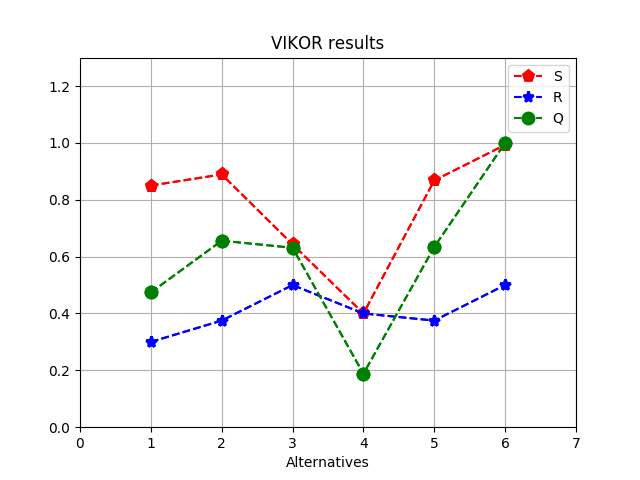
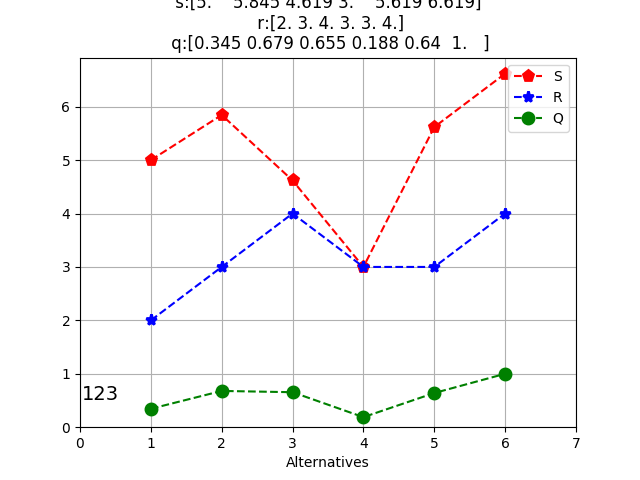
change

diff --git a/chart.py b/chart.py
@@ -1,0 +1,137 @@
+
+# embedding_in_qt5.py --- Simple Qt5 application embedding matplotlib canvases
+#
+# Copyright (C) 2005 Florent Rougon
+#               2006 Darren Dale
+#               2015 Jens H Nielsen
+#
+# This file is an example program for matplotlib. It may be used and
+# modified with no restriction; raw copies as well as modified versions
+# may be distributed without limitation.
+
+from __future__ import unicode_literals
+import sys
+import os
+import random
+import matplotlib
+# Make sure that we are using QT5
+matplotlib.use('Qt5Agg')
+from PyQt5 import QtCore, QtWidgets
+
+from numpy import arange, sin, pi
+from matplotlib.backends.backend_qt5agg import FigureCanvasQTAgg as FigureCanvas
+from matplotlib.figure import Figure
+
+progname = os.path.basename(sys.argv[0])
+progversion = "0.1"
+
+
+class MyMplCanvas(FigureCanvas):
+    """Ultimately, this is a QWidget (as well as a FigureCanvasAgg, etc.)."""
+
+    def __init__(self, parent=None, width=5, height=4, dpi=100):
+        fig = Figure(figsize=(width, height), dpi=dpi)
+        self.axes = fig.add_subplot(111)
+
+        self.compute_initial_figure()
+
+        FigureCanvas.__init__(self, fig)
+        self.setParent(parent)
+
+        FigureCanvas.setSizePolicy(self,
+                                   QtWidgets.QSizePolicy.Expanding,
+                                   QtWidgets.QSizePolicy.Expanding)
+        FigureCanvas.updateGeometry(self)
+
+    def compute_initial_figure(self):
+        pass
+
+
+class MyStaticMplCanvas(MyMplCanvas):
+    """Simple canvas with a sine plot."""
+
+    def compute_initial_figure(self):
+        t = arange(0.0, 3.0, 0.01)
+        s = sin(2*pi*t)
+        self.axes.plot(t, s)
+
+
+class MyDynamicMplCanvas(MyMplCanvas):
+    """A canvas that updates itself every second with a new plot."""
+
+    def __init__(self, *args, **kwargs):
+        MyMplCanvas.__init__(self, *args, **kwargs)
+        timer = QtCore.QTimer(self)
+        timer.timeout.connect(self.update_figure)
+        timer.start(1000)
+
+    def compute_initial_figure(self):
+        self.axes.plot([0, 1, 2, 3], [1, 2, 0, 4], 'r')
+
+    def update_figure(self):
+        # Build a list of 4 random integers between 0 and 10 (both inclusive)
+        l = [random.randint(0, 10) for i in range(4)]
+        self.axes.cla()
+        self.axes.plot([0, 1, 2, 3], l, 'r')
+        self.draw()
+
+
+class ApplicationWindow(QtWidgets.QMainWindow):
+    def __init__(self):
+        QtWidgets.QMainWindow.__init__(self)
+        self.setAttribute(QtCore.Qt.WA_DeleteOnClose)
+        self.setWindowTitle("application main window")
+
+        self.file_menu = QtWidgets.QMenu('&File', self)
+        self.file_menu.addAction('&Quit', self.fileQuit,
+                                 QtCore.Qt.CTRL + QtCore.Qt.Key_Q)
+        self.menuBar().addMenu(self.file_menu)
+
+        self.help_menu = QtWidgets.QMenu('&Help', self)
+        self.menuBar().addSeparator()
+        self.menuBar().addMenu(self.help_menu)
+
+        self.help_menu.addAction('&About', self.about)
+
+        self.main_widget = QtWidgets.QWidget(self)
+
+        l = QtWidgets.QVBoxLayout(self.main_widget)
+        sc = MyStaticMplCanvas(self.main_widget, width=5, height=4, dpi=100)
+        dc = MyDynamicMplCanvas(self.main_widget, width=5, height=4, dpi=100)
+        l.addWidget(sc)
+        l.addWidget(dc)
+
+        self.main_widget.setFocus()
+        self.setCentralWidget(self.main_widget)
+
+        self.statusBar().showMessage("All hail matplotlib!", 2000)
+
+    def fileQuit(self):
+        self.close()
+
+    def closeEvent(self, ce):
+        self.fileQuit()
+
+    def about(self):
+        QtWidgets.QMessageBox.about(self, "About",
+                                    """embedding_in_qt5.py example
+Copyright 2005 Florent Rougon, 2006 Darren Dale, 2015 Jens H Nielsen
+
+This program is a simple example of a Qt5 application embedding matplotlib
+canvases.
+
+It may be used and modified with no restriction; raw copies as well as
+modified versions may be distributed without limitation.
+
+This is modified from the embedding in qt4 example to show the difference
+between qt4 and qt5"""
+                                )
+
+
+qApp = QtWidgets.QApplication(sys.argv)
+
+aw = ApplicationWindow()
+aw.setWindowTitle("%s" % progname)
+aw.show()
+sys.exit(qApp.exec_())
+#qApp

diff --git a/VIKOR.py b/VIKOR.py
@@ -73,6 +73,8 @@ def vikor(a, b, c, pl):
         e = [i + 1 for i in range(a.shape[0])]
         plt.plot(e, s, 'p--', color = 'red', 
 			markeredgewidth = 2, markersize = 8)
+        plt.text(0.02, 0.5, '123', fontsize=14)
+
         plt.plot(e, r, '*--',  color = 'blue', 
 			markeredgewidth = 2, markersize=8)
         plt.plot(e, q, 'o--', color = 'green', 
@@ -82,11 +84,13 @@ def vikor(a, b, c, pl):
         plt.axis([0, a.shape[0] + 1, 0, 
 			max(maximum(maximum(s, r), q)) + 0.3])
         plt.title("VIKOR results")
+        text = "Alternatives \n s:{} \n r:{}\n q:{}".format(s,r,q)
         plt.xlabel("Alternatives")
         plt.legend(['S', 'R', 'Q'])
         plt.grid(True)
         plt.show()
-    return s, r, q
+        plt.savefig('test.png')
+    return s, r, q 
 
 # performances of the alternatives
 x = array([[8, 7, 2, 1], [5, 3, 7, 5], [7, 5, 6, 4],
@@ -100,10 +104,10 @@ crit_max_min = array(['max', 'max', 'max', 'max'])
 
 # final results
 start = timeit.default_timer()
-vikor(x, crit_max_min, w, 'n')
-stop = timeit.default_timer()
-print(stop - start)
-s, r, q = vikor(x, crit_max_min, w, 'y')
-print("S = ", s)
-print("R = ", r)
-print("Q = ", q)
+# vikor(x, crit_max_min, w, 'n')
+# stop = timeit.default_timer()
+# print(stop - start)
+# s, r, q = vikor(x, crit_max_min, w, 'y')
+# print("S = ", s)
+# print("R = ", r)
+# print("Q = ", q)

diff --git a/GUI.py b/GUI.py
@@ -223,8 +223,11 @@ class BodyWindows(QtWidgets.QWidget):
 
         # criteria max/min
         import numpy as np
-        vikor(np.asarray(self.excelData),np.asarray(min_max),np.asarray(weights),'y')
-        self.ShowResultPage()
+        s ,r ,q  =vikor(np.asarray(self.excelData),np.asarray(min_max),np.asarray(weights),'y')
+        print("S = ", s)
+        print("R = ", r)
+        print("Q = ", q)
+        # self.ShowResultPage()
 
     def ShowResultPage(self):
         self.Rpage = ResultPage()
